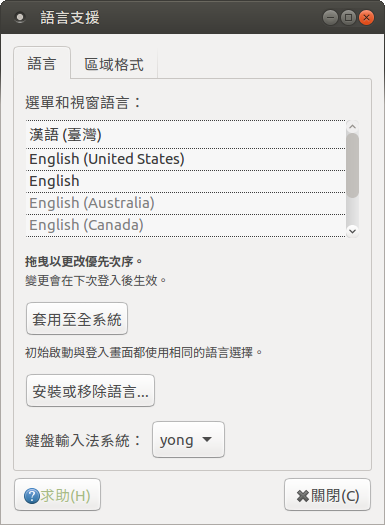
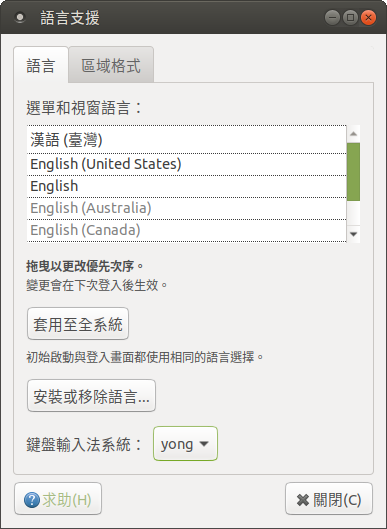
Renew Ubuntu 18.04 screenshot

diff --git a/linux/index.html b/linux/index.html
@@ -184,7 +184,7 @@ $ sudo ./yong-tool.sh --install
 $ ./yong-tools.sh --select
 </code></pre>
 <p>登出再重新登入，讓新設定生效。</p>
-<p>下圖為Ubuntu Mate 16.04的例子，“語言支援”的“鍵盤輸入法系統：”應該會是yong：</p>
+<p>下圖為Ubuntu MATE 18.04的例子，“語言支援”的“鍵盤輸入法系統：”應該會是yong：</p>
 <p><img alt="語言支援" src="../img/language_support.png" /></p>
 <p>詳細說明請見〈<a href="http://yong.dgod.net/read.php?tid=6&amp;fid=7">Linux下小小輸入法的安裝</a>〉或yong.chm中&gt;&gt;其它說明&gt;&gt;安裝裁減&gt;&gt;小小的安裝。如果有用ibus，務必先看一下再安裝。</p>
 <h2 id="_4">四、卸載方法</h2>

diff --git a/index.html b/index.html
@@ -261,5 +261,5 @@
 
 <!--
 MkDocs version : 0.17.3
-Build Date UTC : 2018-05-01 14:47:07
+Build Date UTC : 2018-05-03 12:09:19
 -->
